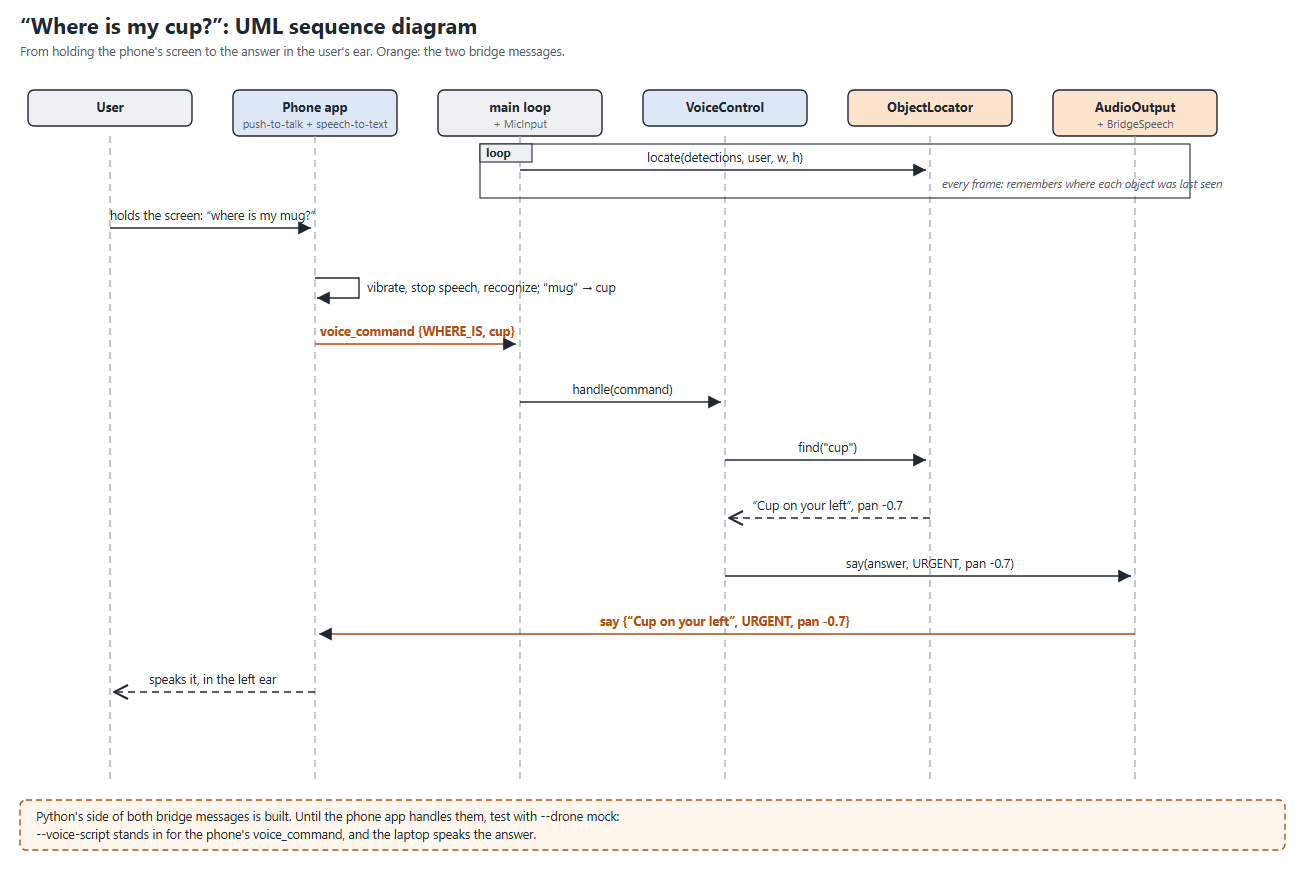
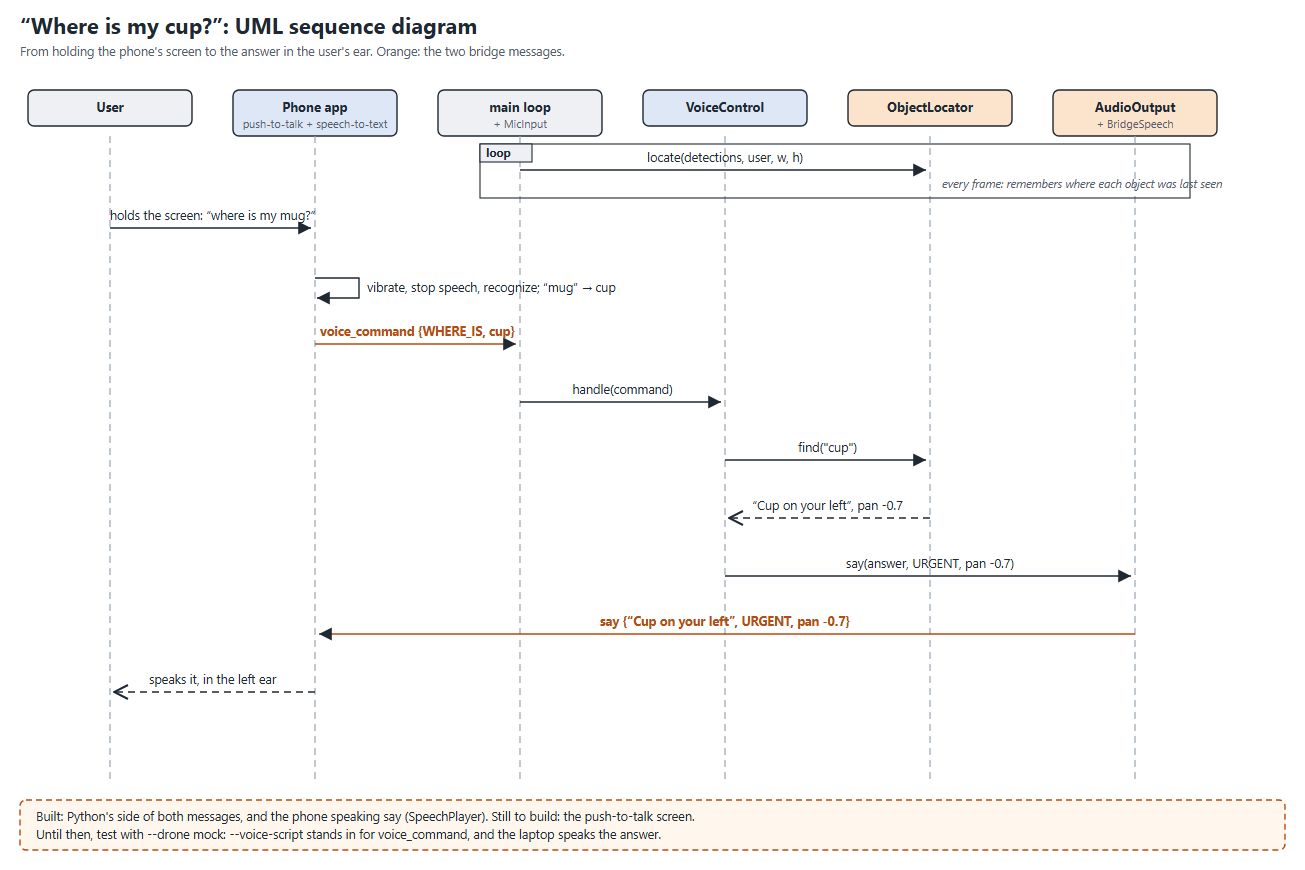
Diagrams: the phone now speaks; only push-to-talk is still to build

Changed region(s): [[0.0307, 0.931, 0.5211, 0.9621]]

diff --git a/docs/uml/make_audio_diagrams.py b/docs/uml/make_audio_diagrams.py
@@ -412,8 +412,8 @@ def sequence_diagram():
 
     note_y = bottom + 20
     parts.append(rect(20, note_y, width - 40, 50, fill="#fff7ed", stroke=PLANNED, rx=6, dashed=True))
-    parts.append(text(36, note_y + 21, "Python's side of both bridge messages is built. Until the phone app handles them, test with --drone mock:", size=12.5))
-    parts.append(text(36, note_y + 39, "--voice-script stands in for the phone's voice_command, and the laptop speaks the answer.", size=12.5))
+    parts.append(text(36, note_y + 21, "Built: Python's side of both messages, and the phone speaking say (SpeechPlayer). Still to build: the push-to-talk screen.", size=12.5))
+    parts.append(text(36, note_y + 39, "Until then, test with --drone mock: --voice-script stands in for voice_command, and the laptop speaks the answer.", size=12.5))
     height = note_y + 70
     svg = svg_document(width, height, parts)
     save(UML_DIR, "audio_sequence_where_is.svg", svg, width, height)
@@ -510,7 +510,7 @@ def mockup():
     pw, ph = 300, 600
     width, height = 1240, 760
     parts = [text(30, 40, "Phone push-to-talk screen: UI mockup", size=24, weight="bold"),
-             text(30, 64, "Planned for the Android bridge app. Designed for a user who can't see the screen: the whole screen is one button.", size=13, fill=MUTED)]
+             text(30, 64, "For the Android bridge app (in progress). Designed for a user who can't see the screen: the whole screen is one button.", size=13, fill=MUTED)]
 
     def phone(x, y, bg, fg, title, line1, line2, caption, rings):
         out = [rect(x, y, pw, ph, fill="#0d1117", stroke="#0d1117", rx=36),
